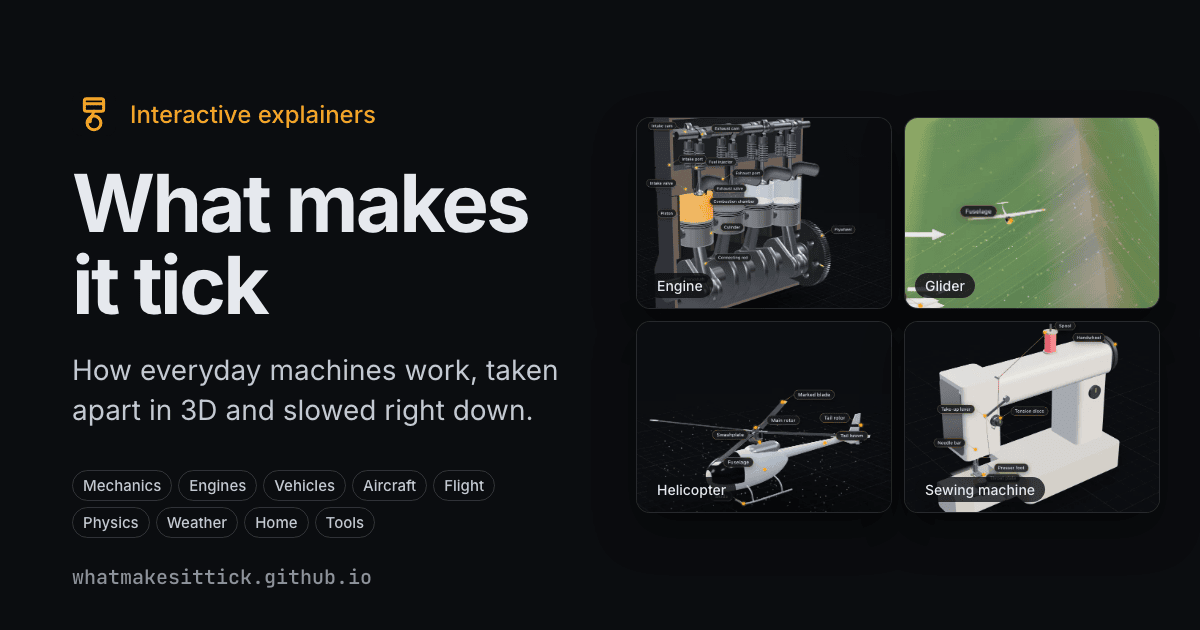
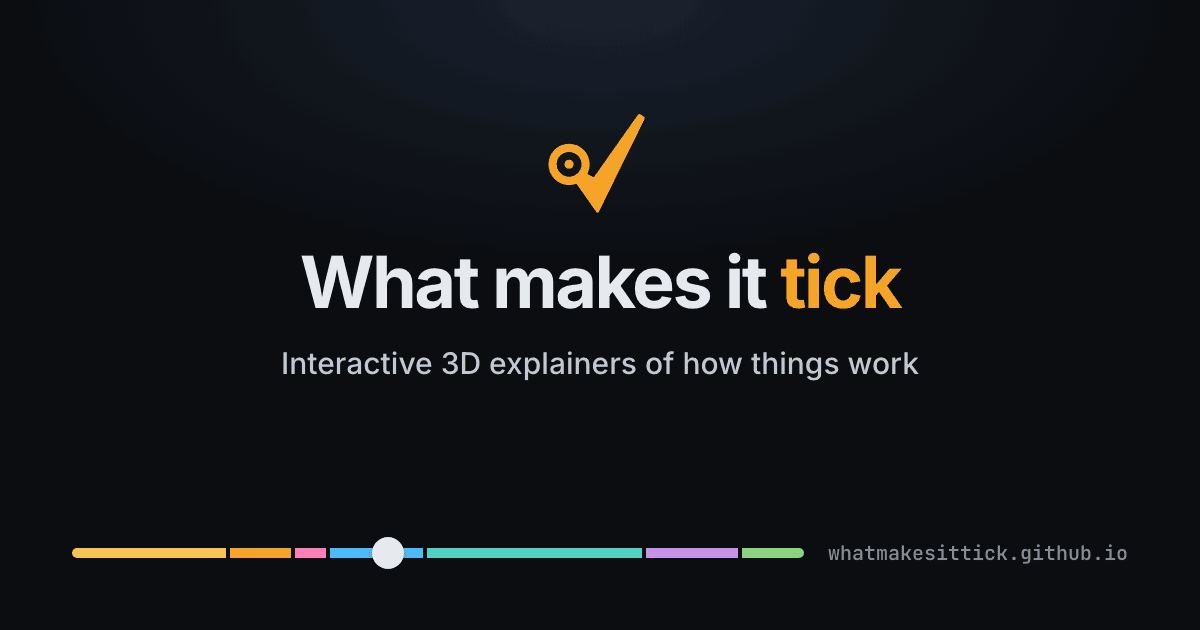
feat(site): brand the site link preview

diff --git a/scripts/cards/site.html b/scripts/cards/site.html
@@ -7,11 +7,12 @@
     <link rel="preconnect" href="https://fonts.gstatic.com" crossorigin />
     <link
       rel="stylesheet"
-      href="https://fonts.googleapis.com/css2?family=Inter:wght@400;500;700&family=JetBrains+Mono:wght@500&display=swap"
+      href="https://fonts.googleapis.com/css2?family=Inter:wght@500;700&family=JetBrains+Mono:wght@500&display=swap"
     />
     <style>
       :root {
         --background: #0b0d10;
+        --glow: #1a2230;
         --text: #e6e9ee;
         --prose: #c3c9d2;
         --muted: #8b929c;
@@ -19,180 +20,136 @@
       }
 
       body {
-        position: relative;
+        display: flex;
+        flex-direction: column;
+        justify-content: space-between;
+        box-sizing: border-box;
         width: 1200px;
         height: 630px;
         margin: 0;
+        padding: 64px 72px;
         overflow: hidden;
         color: var(--text);
-        background: var(--background);
+        background: radial-gradient(
+          ellipse 70% 60% at 50% 0%,
+          var(--glow) 0%,
+          var(--background) 70%
+        );
         font-family: 'Inter', sans-serif;
         -webkit-font-smoothing: antialiased;
       }
 
-      .covers {
-        position: absolute;
-        top: 117px;
-        right: 40px;
-        display: grid;
-        grid-template-columns: repeat(2, 256px);
-        grid-auto-rows: 192px;
-        gap: 12px;
-        margin: 0;
-        padding: 0;
-        list-style: none;
-      }
-
-      .cover {
-        position: relative;
-        overflow: hidden;
-        border: 1px solid rgb(255 255 255 / 0.12);
-        border-radius: 14px;
-        background: var(--background);
-        box-shadow: 0 18px 40px rgb(0 0 0 / 0.45);
-      }
-
-      .cover img {
-        position: absolute;
-        top: var(--top);
-        left: var(--left);
-        width: var(--width);
-      }
-
-      .cover.faded::after {
-        content: '';
-        position: absolute;
-        inset: 0;
-        background: radial-gradient(
-          ellipse 90px 70px at 100% 0,
-          var(--background) 60%,
-          transparent
-        );
-      }
-
-      .cover span {
-        position: absolute;
-        z-index: 1;
-        bottom: 10px;
-        left: 10px;
-        padding: 4px 10px;
-        border-radius: 999px;
-        color: var(--text);
-        background: rgb(11 13 16 / 0.78);
-        font-size: 14px;
-        font-weight: 500;
-      }
-
-      .copy {
-        position: absolute;
-        top: 0;
-        bottom: 0;
-        left: 72px;
+      .title {
         display: flex;
         flex-direction: column;
-        justify-content: center;
-        width: 500px;
-      }
-
-      .eyebrow {
-        display: flex;
         align-items: center;
-        gap: 14px;
-        margin: 0 0 26px;
-        color: var(--accent);
-        font-size: 24px;
-        font-weight: 500;
+        gap: 26px;
+        padding-top: 24px;
+        text-align: center;
       }
 
-      .eyebrow img {
-        width: 44px;
-        height: 44px;
+      .mark {
+        width: 132px;
+        height: 132px;
       }
 
       h1 {
         margin: 0;
-        font-size: 80px;
+        font-size: 72px;
         font-weight: 700;
-        line-height: 1.02;
+        line-height: 1;
         letter-spacing: -0.035em;
       }
 
+      h1 span {
+        color: var(--accent);
+      }
+
       .subtitle {
-        margin: 26px 0 0;
+        margin: 0;
         color: var(--prose);
-        font-size: 28px;
-        line-height: 1.4;
-      }
-
-      .tags {
-        display: flex;
-        flex-wrap: wrap;
-        gap: 6px;
-        margin: 40px 0 0;
-        padding: 0;
-        list-style: none;
-      }
-
-      .tags li {
-        padding: 5px 10px;
-        border: 1px solid rgb(255 255 255 / 0.16);
-        border-radius: 999px;
-        color: var(--prose);
-        font-size: 15px;
+        font-size: 30px;
         font-weight: 500;
+        line-height: 1.3;
+      }
+
+      .footer {
+        display: flex;
+        align-items: center;
+        gap: 24px;
+      }
+
+      .timeline {
+        position: relative;
+        display: flex;
+        flex-grow: 1;
+        gap: 4px;
+        height: 10px;
+      }
+
+      .timeline span {
+        flex-grow: var(--grow);
+        background: var(--color);
+      }
+
+      .timeline span:first-of-type {
+        border-radius: 5px 0 0 5px;
+      }
+
+      .timeline span:last-of-type {
+        border-radius: 0 5px 5px 0;
+      }
+
+      .knob {
+        position: absolute;
+        top: -11px;
+        left: 41%;
+        width: 32px;
+        height: 32px;
+        border-radius: 50%;
+        background: var(--text);
+        box-shadow: 0 4px 14px rgb(0 0 0 / 0.5);
       }
 
       .url {
-        position: absolute;
-        bottom: 40px;
-        left: 72px;
         margin: 0;
         color: var(--muted);
         font-family: 'JetBrains Mono', monospace;
         font-size: 20px;
         font-weight: 500;
+        white-space: nowrap;
       }
     </style>
   </head>
   <body>
-    <ul class="covers">
-      <li class="cover faded" style="--width: 341px; --left: 0; --top: -46px">
-        <img src="../../explainers/engine/public/cover.webp" alt="" />
-        <span>Engine</span>
-      </li>
-      <li class="cover" style="--width: 459px; --left: -89px; --top: -44px">
-        <img src="../../explainers/glider/public/cover.webp" alt="" />
-        <span>Glider</span>
-      </li>
-      <li class="cover" style="--width: 373px; --left: 0; --top: -24px">
-        <img src="../../explainers/helicopter/public/cover.webp" alt="" />
-        <span>Helicopter</span>
-      </li>
-      <li class="cover" style="--width: 341px; --left: -7px; --top: -48px">
-        <img src="../../explainers/sewing-machine/public/cover.webp" alt="" />
-        <span>Sewing machine</span>
-      </li>
-    </ul>
-    <main class="copy">
-      <p class="eyebrow">
-        <img src="../../public/favicon.svg" alt="" />
-        Interactive explainers
-      </p>
-      <h1>What makes it tick</h1>
-      <p class="subtitle">How everyday machines work, taken apart in 3D and slowed right down.</p>
-      <ul class="tags">
-        <li>Mechanics</li>
-        <li>Engines</li>
-        <li>Vehicles</li>
-        <li>Aircraft</li>
-        <li>Flight</li>
-        <li>Physics</li>
-        <li>Weather</li>
-        <li>Home</li>
-        <li>Tools</li>
-      </ul>
+    <main class="title">
+      <svg class="mark" viewBox="0 0 64 64" aria-hidden="true">
+        <circle cx="17" cy="37" r="8" fill="none" stroke="#f5a524" stroke-width="4" />
+        <circle cx="17" cy="37" r="2.2" fill="#f5a524" />
+        <path
+          d="M20.6 45.2 L30.8 59.7 L53 14.6 L51 13.4 L29.2 44.3 L24.4 41.8 Z"
+          fill="#f5a524"
+          stroke="#f5a524"
+          stroke-width="1.5"
+          stroke-linejoin="round"
+        />
+      </svg>
+      <h1>What makes it <span>tick</span></h1>
+      <p class="subtitle">Interactive 3D explainers of how things work</p>
     </main>
-    <p class="url">whatmakesittick.github.io</p>
+    <footer class="footer">
+      <div class="timeline">
+        <span style="--grow: 5; --color: #f5c451"></span>
+        <span style="--grow: 2; --color: #ff9f43"></span>
+        <span style="--grow: 1; --color: #ff7eb6"></span>
+        <span style="--grow: 3; --color: #4cc3ff"></span>
+        <span style="--grow: 7; --color: #4fd1c5"></span>
+        <span style="--grow: 3; --color: #c792ea"></span>
+        <span style="--grow: 2; --color: #8bd47f"></span>
+        <div class="knob"></div>
+      </div>
+      <p class="url">whatmakesittick.github.io</p>
+    </footer>
     <script>
       Promise.all([
         document.fonts.ready,

diff --git a/vite/site.ts b/vite/site.ts
@@ -9,7 +9,7 @@ export const AUTHOR = { name: 'Vitalii Elenhaupt', url: 'https://github.com/veel
 export const SOCIAL_IMAGE_SIZE = { width: 1200, height: 630 } as const;
 export const SITE_SOCIAL = {
   image: 'social/og-image.png',
-  alt: 'Four 3D models with labelled parts in a grid, a cutaway inline four engine, a glider over a green ridge, a helicopter and a sewing machine, beside the title What makes it tick',
+  alt: 'The tick mark, a tick rising from a crank wheel, above the title What makes it tick and the line Interactive 3D explainers of how things work, with a colourful timeline and the site address below',
 } as const;
 
 export function siteUrl(path = ''): string {
